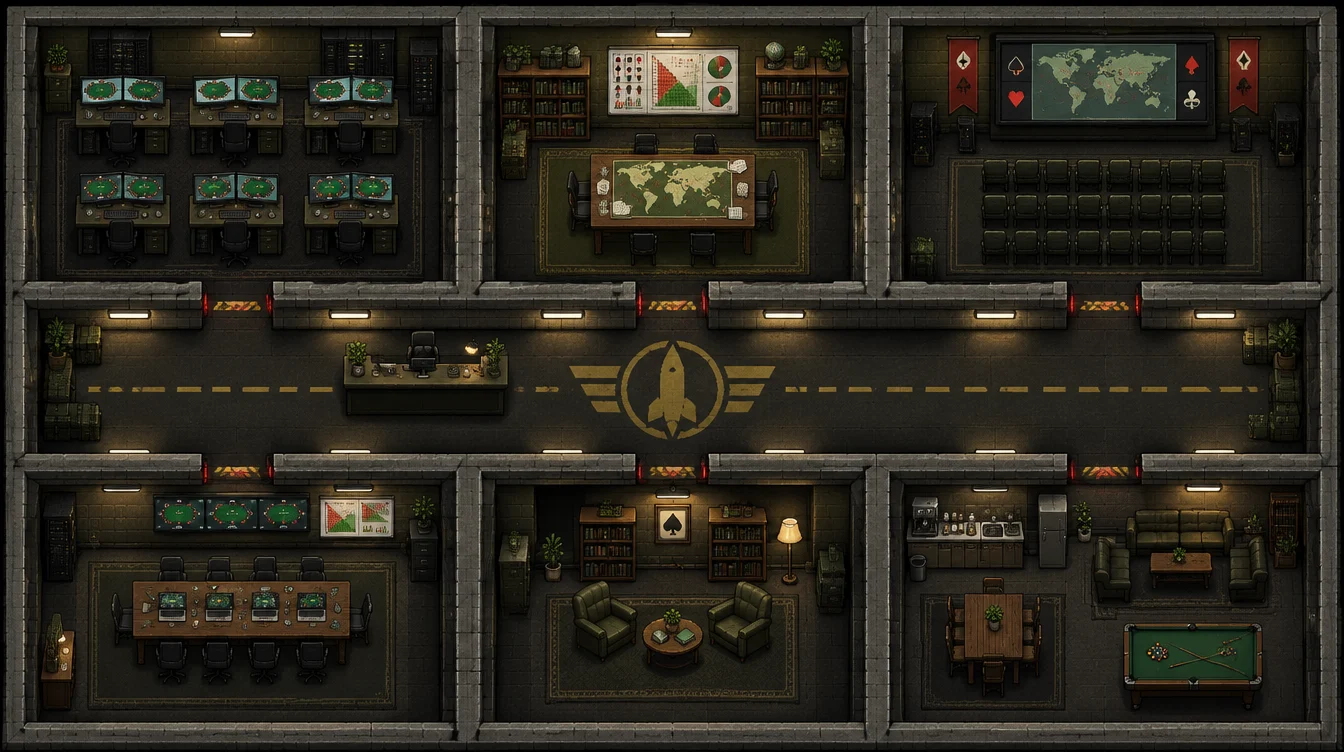
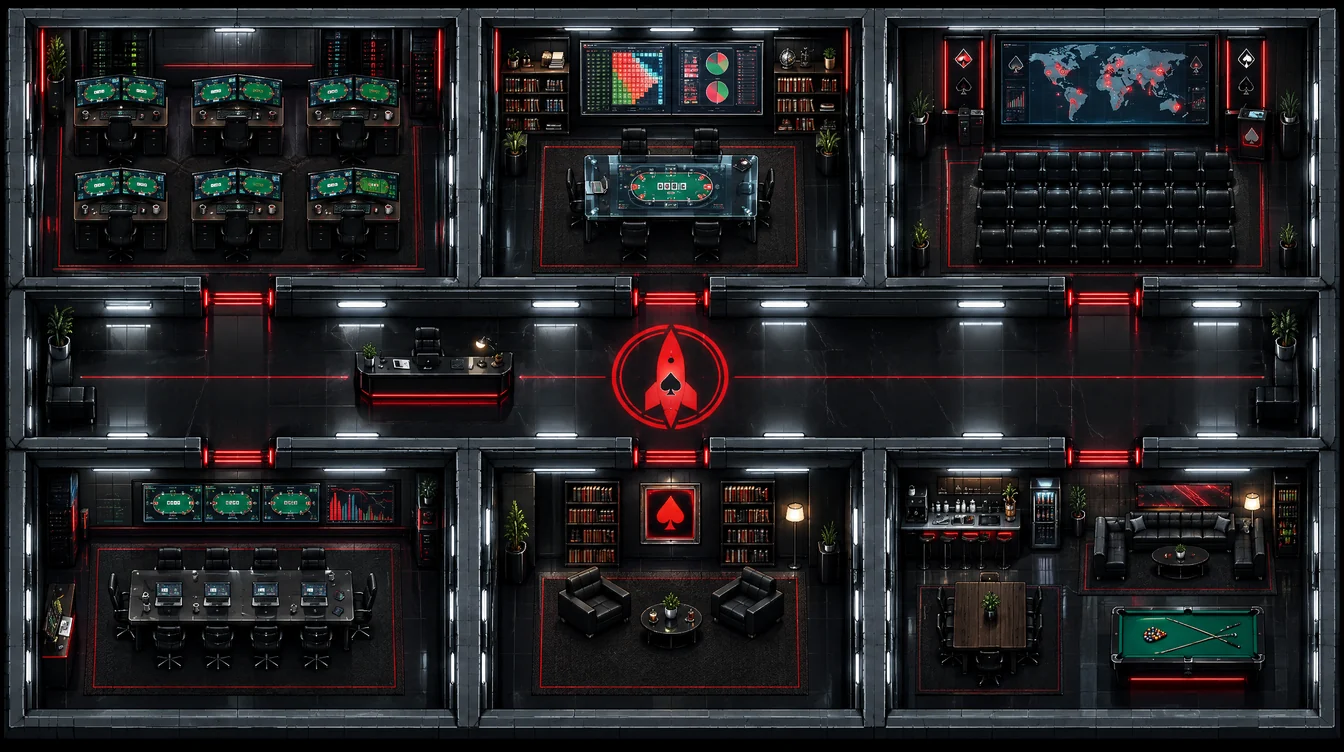
Supreme look: secret agent team instead of army (clearance ranks, missions, agent HQ map)

diff --git a/style.css b/style.css
@@ -582,27 +582,29 @@ body.cam .journal-page textarea.sensitive { color: transparent; text-shadow: 0 0
 .wk-ev.me { box-shadow: 0 0 0 1px var(--text) inset; }
 dialog .btns { display: flex; gap: 8px; flex-wrap: wrap; }
 
-/* ---------- special ops look (Supreme team, Max's HU = operations) ---------- */
-:root { --khaki: #b5b37a; --olive: #4d5a2e; --olive-2: #36401f; --stencil: "Black Ops One", var(--head); }
+/* ---------- secret agent look (Supreme team, Max's HU = missions). Alexis 2026-10-28: "online poker secret agent team", no army. ---------- */
+:root { --agent-line: rgba(253,6,6,.45); --mono: "JetBrains Mono", ui-monospace, Menlo, monospace; }
 body.ops { background:
-  linear-gradient(rgba(181,179,122,.035) 1px, transparent 1px) 0 0 / 28px 28px,
-  linear-gradient(90deg, rgba(181,179,122,.035) 1px, transparent 1px) 0 0 / 28px 28px, var(--bg); }
-body.ops h1, body.ops .char-name, body.ops .hero-name { font-family: var(--stencil); font-weight: 400; letter-spacing: .02em; }
-body.ops .rank { color: var(--khaki); letter-spacing: .04em; }
-body.ops .lvl-badge { background: var(--olive); color: #f1efd2; border: 1px solid var(--khaki); clip-path: polygon(50% 0, 100% 25%, 100% 75%, 50% 100%, 0 75%, 0 25%); border-radius: 0; }
-body.ops .char { position: relative; }
+  repeating-linear-gradient(0deg, rgba(255,255,255,.016) 0 1px, transparent 1px 3px),
+  radial-gradient(1100px 520px at 50% -8%, rgba(253,6,6,.09), transparent 62%), var(--bg); }
+body.ops h1, body.ops .char-name, body.ops .hero-name { font-family: var(--mono); font-weight: 600; letter-spacing: .05em; text-transform: uppercase; }
+body.ops .rank { color: var(--red); font-family: var(--mono); font-size: 12px; letter-spacing: .14em; text-transform: uppercase; }
+body.ops .lvl-badge { background: #000; color: var(--red); border: 1px solid var(--red); font-family: var(--mono); border-radius: 4px; box-shadow: 0 0 12px rgba(253,6,6,.35); }
+body.ops .char { position: relative; background: radial-gradient(120% 80% at 50% 0%, rgba(253,6,6,.12), transparent 70%), #08080a; border-color: var(--agent-line); }
+body.ops .char::before { content: "TOP SECRET"; position: absolute; top: 16px; right: 14px; pointer-events: none;
+  font: 700 9.5px/1 var(--mono); letter-spacing: .28em; color: var(--red); border: 1.5px solid var(--red); border-radius: 3px; padding: 4px 6px; transform: rotate(-7deg); opacity: .75; }
 body.ops .char::after, .op.nextup-in::after { content: ""; position: absolute; inset: 6px; pointer-events: none;
-  background: linear-gradient(var(--khaki), var(--khaki)) 0 0 / 14px 2px, linear-gradient(var(--khaki), var(--khaki)) 0 0 / 2px 14px,
-    linear-gradient(var(--khaki), var(--khaki)) 100% 0 / 14px 2px, linear-gradient(var(--khaki), var(--khaki)) 100% 0 / 2px 14px,
-    linear-gradient(var(--khaki), var(--khaki)) 0 100% / 14px 2px, linear-gradient(var(--khaki), var(--khaki)) 0 100% / 2px 14px,
-    linear-gradient(var(--khaki), var(--khaki)) 100% 100% / 14px 2px, linear-gradient(var(--khaki), var(--khaki)) 100% 100% / 2px 14px;
-  background-repeat: no-repeat; opacity: .7; }
-.op.nextup-in { position: relative; background: repeating-linear-gradient(135deg, var(--olive-2) 0 10px, #2c3519 10px 20px) !important; border-color: var(--khaki) !important; }
-.op.nextup-in b, .hrow.op, .wk-ev.op b, dialog.op h3 { font-family: var(--stencil); font-weight: 400; letter-spacing: .03em; }
-.op.nextup-in .eyebrow { color: var(--khaki); }
-.wk-ev.op { background: repeating-linear-gradient(135deg, var(--olive-2) 0 8px, #2c3519 8px 16px); border-color: var(--khaki); border-left-color: var(--khaki); }
-.wk-ev.op small { color: var(--khaki); }
-dialog.op { border-color: var(--khaki); background: linear-gradient(180deg, #232a15, var(--bg-2, #111)); }
+  background: linear-gradient(var(--red), var(--red)) 0 0 / 12px 1.5px, linear-gradient(var(--red), var(--red)) 0 0 / 1.5px 12px,
+    linear-gradient(var(--red), var(--red)) 100% 0 / 12px 1.5px, linear-gradient(var(--red), var(--red)) 100% 0 / 1.5px 12px,
+    linear-gradient(var(--red), var(--red)) 0 100% / 12px 1.5px, linear-gradient(var(--red), var(--red)) 0 100% / 1.5px 12px,
+    linear-gradient(var(--red), var(--red)) 100% 100% / 12px 1.5px, linear-gradient(var(--red), var(--red)) 100% 100% / 1.5px 12px;
+  background-repeat: no-repeat; opacity: .8; }
+.op.nextup-in { position: relative; background: linear-gradient(135deg, #1a0405, #08080a 65%) !important; border-color: var(--agent-line) !important; }
+.op.nextup-in b, .hrow.op, .wk-ev.op b, dialog.op h3 { font-family: var(--mono); font-weight: 600; letter-spacing: .04em; }
+.op.nextup-in .eyebrow { color: var(--red); font-family: var(--mono); }
+.wk-ev.op { background: linear-gradient(135deg, #1d0405, #0b0b0d); border-color: var(--agent-line); border-left-color: var(--red); }
+.wk-ev.op small { color: var(--red); }
+dialog.op { border-color: var(--agent-line); background: linear-gradient(180deg, #170405, var(--bg-2, #111)); }
 
 /* ---------- avatar picker ---------- */
 .nick-row { display: flex; gap: 8px; align-items: flex-end; margin-bottom: 12px; }

diff --git a/game.js b/game.js
@@ -182,13 +182,13 @@ async function gameStats(p) {
   g.skins = SKINS.filter((s) => !s.unlock || g.unlocked.includes(s.unlock)).map((s) => s.id);
   return g;
 }
-/* Special ops look for Supreme (Alexis 2026-10-28: "armée RTS, opération spéciale", for Supreme and Max's coachings first). */
-const OPS_RANKS = [[1, "Recruit", "Recrue"], [3, "Private", "Soldat"], [5, "Corporal", "Caporal"], [8, "Sergeant", "Sergent"], [12, "Lieutenant", "Lieutenant"],
-  [16, "Captain", "Capitaine"], [20, "Major", "Commandant"], [25, "Colonel", "Colonel"], [30, "General", "Général"]];
+/* Secret agent look for Supreme (Alexis 2026-10-28: "online poker secret agent team", replaced the army look). Ranks = clearance levels. */
+const OPS_RANKS = [[1, "Recruit", "Recrue"], [3, "Field agent", "Agent de terrain"], [6, "Special agent", "Agent spécial"], [10, "Senior agent", "Agent senior"],
+  [15, "Handler", "Officier traitant"], [22, "Station chief", "Chef de station"], [30, "Director", "Directeur"]];
 const opsRank = (lvl) => { const r = OPS_RANKS.filter((x) => lvl >= x[0]).pop(); return LANG === "fr" ? r[2] : r[1]; };
 const isOperation = (e) => e.kind === "coaching" && e.teams?.length === 1 && e.teams[0] === "supreme";
-const opTitle = (e) => (isOperation(e) ? `OP · ${e.title}` : e.title);
-const rankLine = (p, g) => [p.team_id === "supreme" ? `★ ${opsRank(g.level)}` : null, esc(teamOf(p).label), p.stakes ? esc(p.stakes) : null, `${t("season")} ${g.season}`].filter(Boolean).join(" · ");
+const opTitle = (e) => (isOperation(e) ? `MISSION · ${e.title}` : e.title);
+const rankLine = (p, g) => [p.team_id === "supreme" ? `◆ ${opsRank(g.level)}` : null, esc(teamOf(p).label), p.stakes ? esc(p.stakes) : null, `${t("season")} ${g.season}`].filter(Boolean).join(" · ");
 const mySkin = (p, g) => (g?.skins || []).includes(p.skin) ? p.skin : (g?.skins || ["rookie"]).slice(-1)[0] || "rookie";
 
 /* XP toast: shows what you earned since your last visit, and level ups. */
@@ -406,5 +406,5 @@ async function viewHQ() {
   $("#hqsay").onsubmit = (ev) => { ev.preventDefault(); const v = ev.target.m.value.trim(); if (v) PRES.ch?.say(v); ev.target.reset(); };
   if (go) setTimeout(() => hqMove(go), 900);
 }
-/* Map art (Higgsfield, 2026-10-28): the HQ for everyone, the special ops bunker for Supreme. */
+/* Map art (Higgsfield, 2026-10-28): the HQ for everyone, the secret agent HQ for Supreme. */
 const hqArt = () => (document.body.classList.contains("ops") ? "img/hq/hq-ops.webp" : "img/hq/hq.webp");

diff --git a/index.html b/index.html
@@ -8,7 +8,7 @@
 <meta name="theme-color" content="#060607">
 <link rel="icon" href="img/logo.svg">
 <link rel="preconnect" href="https://fonts.googleapis.com">
-<link href="https://fonts.googleapis.com/css2?family=Black+Ops+One&family=Inter:wght@400;500;600&family=Instrument+Serif:ital@0;1&display=swap" rel="stylesheet">
+<link href="https://fonts.googleapis.com/css2?family=JetBrains+Mono:wght@600;700&family=Inter:wght@400;500;600&family=Instrument+Serif:ital@0;1&display=swap" rel="stylesheet">
 <link rel="stylesheet" href="style.css?v=16">
 <link rel="stylesheet" href="replayer.css?v=25">
 </head>
